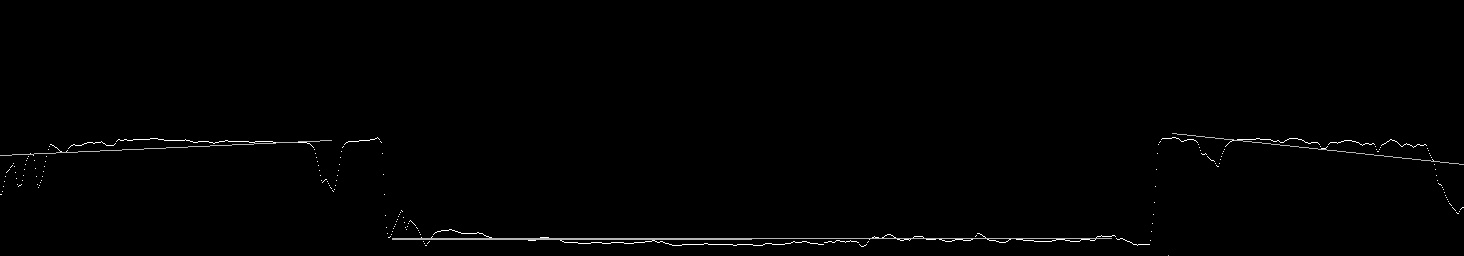
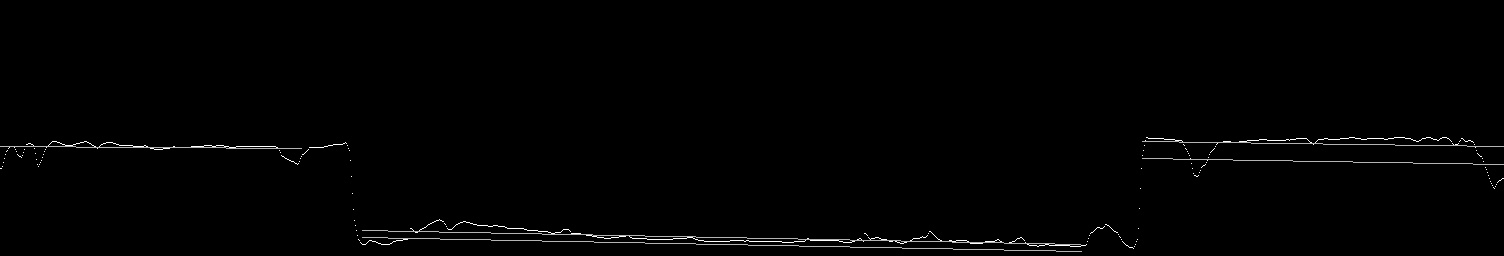
Final touches
fixed compare colours on the final candidate. Changed colour difference
to using a rgb delta e that ignored perceptual difference

diff --git a/cvtest/cvtest/Main.cpp b/cvtest/cvtest/Main.cpp
@@ -14,11 +14,48 @@ const int VGA_HEIGHT = 480;
 const int QQVGA_WIDTH = 160;
 const int QQVGA_HEIGHT = 120;
 
+std::vector<cv::Mat> newsetfourColour(){
+	std::vector<cv::Mat> frames = std::vector<cv::Mat>();
+	frames.push_back(cv::imread("rawdata\\set_four\\1cframe.jpg"));
+	frames.push_back(cv::imread("rawdata\\set_four\\2cframe.jpg"));
+	frames.push_back(cv::imread("rawdata\\set_four\\3cframe.jpg"));
+	frames.push_back(cv::imread("rawdata\\set_four\\4cframe.jpg"));
+
+	return frames;
+}
+
+std::vector<cv::Mat> newsetfourDepth(){
+	std::vector<cv::Mat> frames = std::vector<cv::Mat>();
+	frames.push_back(cv::imread("rawdata\\set_four\\1depthframe.jpg", CV_LOAD_IMAGE_GRAYSCALE));
+	frames.push_back(cv::imread("rawdata\\set_four\\2depthframe.jpg", CV_LOAD_IMAGE_GRAYSCALE));
+	frames.push_back(cv::imread("rawdata\\set_four\\3depthframe.jpg", CV_LOAD_IMAGE_GRAYSCALE));
+	frames.push_back(cv::imread("rawdata\\set_four\\4depthframe.jpg", CV_LOAD_IMAGE_GRAYSCALE));
+
+	return frames;
+}
 std::vector<cv::Mat> newsetoneColour(){
 	std::vector<cv::Mat> frames = std::vector<cv::Mat>();
 	frames.push_back(cv::imread("rawdata\\newsetone\\2cframe.jpg"));
 	frames.push_back(cv::imread("rawdata\\newsetone\\3cframe.jpg"));
 	frames.push_back(cv::imread("rawdata\\newsetone\\4cframe.jpg"));
+
+	return frames;
+}
+
+std::vector<cv::Mat> newsettwoColor(){
+	std::vector<cv::Mat> frames = std::vector<cv::Mat>();
+	frames.push_back(cv::imread("rawdata\\newsettwo\\1cframe.jpg"));
+	frames.push_back(cv::imread("rawdata\\newsettwo\\2cframe.jpg"));
+	frames.push_back(cv::imread("rawdata\\newsettwo\\3cframe.jpg"));
+
+	return frames;
+}
+
+std::vector<cv::Mat> newsettwoDepth(){
+	std::vector<cv::Mat> frames = std::vector<cv::Mat>();
+	frames.push_back(cv::imread("rawdata\\newsettwo\\1depthframe.jpg", CV_LOAD_IMAGE_GRAYSCALE));
+	frames.push_back(cv::imread("rawdata\\newsettwo\\2depthframe.jpg", CV_LOAD_IMAGE_GRAYSCALE));
+	frames.push_back(cv::imread("rawdata\\newsettwo\\3depthframe.jpg", CV_LOAD_IMAGE_GRAYSCALE));
 
 	return frames;
 }
@@ -57,7 +94,7 @@ std::vector<cv::Mat> getDFrames(){
 	frames.push_back(cv::imread("rawdata\\setthree_with_markers\\6depthframe.jpg", CV_LOAD_IMAGE_GRAYSCALE));
 	frames.push_back(cv::imread("rawdata\\setthree_with_markers\\7depthframe.jpg", CV_LOAD_IMAGE_GRAYSCALE));
 	frames.push_back(cv::imread("rawdata\\setthree_with_markers\\8depthframe.jpg", CV_LOAD_IMAGE_GRAYSCALE));
-	frames.push_back(cv::imread("rawdata\\setthree_with_markers\\93depthframe.jpg", CV_LOAD_IMAGE_GRAYSCALE));
+	frames.push_back(cv::imread("rawdata\\setthree_with_markers\\9depthframe.jpg", CV_LOAD_IMAGE_GRAYSCALE));
 	frames.push_back(cv::imread("rawdata\\setthree_with_markers\\10depthframe.jpg", CV_LOAD_IMAGE_GRAYSCALE));
 	frames.push_back(cv::imread("rawdata\\setthree_with_markers\\11depthframe.jpg", CV_LOAD_IMAGE_GRAYSCALE));
 	
@@ -65,7 +102,7 @@ std::vector<cv::Mat> getDFrames(){
 }	
 
 //stitches all frames based on able to find keypoints. Stops when keypoint not found. FOR NOW
-cv::Mat StitchFrames(std::vector<cv::Mat> cframes, std::vector<cv::Mat> dframes){
+cv::Mat StitchFrames(std::vector<cv::Mat> cframes, std::vector<cv::Mat> dframes, cv::String dataset){
 	assert(cframes.size() == dframes.size());
 	int direction = LEFT2RIGHT; //by default left to right stitching
 	cv::Mat L_cimg, R_cimg;
@@ -256,9 +293,9 @@ cv::Mat StitchFrames(std::vector<cv::Mat> cframes, std::vector<cv::Mat> dframes)
 		cv::Mat corresult = imgreg.stitch(left_cimg, right_cimg, corr_values.first, corr_values.second);
 		cv::Mat depthstitch = imgreg.stitch(left_dimg, right_dimg, corr_values.first, corr_values.second);
 		std::ostringstream stream,dstream;
-		stream << "rawdata\\result\\";
+		stream << "rawdata\\result\\";stream << dataset;
 		stream << "colorstitch.jpg";
-		dstream << "rawdata\\result\\";
+		dstream << "rawdata\\result\\";dstream << dataset;
 		dstream << "depthstitch.jpg";
 		cv::String dfilename = dstream.str();
 		cv::String filename = stream.str();
@@ -273,9 +310,8 @@ cv::Mat StitchFrames(std::vector<cv::Mat> cframes, std::vector<cv::Mat> dframes)
 		}else{
 			printf("Error saving Image. ");
 		}
-		cv::imshow("corresult", corresult);
-		cv::imshow("depthstitch", depthstitch);
-		cv::waitKey(40);
+
+		cv::destroyAllWindows();
 		cstitches.push_back(corresult);
 		dstitches.push_back(depthstitch);
 	}
@@ -333,30 +369,54 @@ cv::Mat showHueSatHist(cv::Mat src){
 int main(){
 	//DeviceRetriever* retrieve = new DeviceRetriever();
 	//retrieve->runNodes();
-	cv::waitKey(0);
+	//cv::waitKey(0);
+	cv::String dataset;
 	clock_t timer;
 	ColorProcessor cProc = ColorProcessor();
 	depthPlaneDetector depth_detector = depthPlaneDetector(61,30);
-
+	DoorDetector door_detector = DoorDetector();
+	
+	std::ostringstream stream;
 	timer = clock();
 	std::vector<cv::Mat> cframes = std::vector<cv::Mat>();
 	std::vector<cv::Mat> dframes = std::vector<cv::Mat>();
 	//cframes = newsetoneColour();
 	//dframes = newsetoneDepth();
-	//cv::Mat final  = StitchFrames(cframes, dframes);
-	cv::Mat colorpano = cv::imread("rawdata\\colorstitch.jpg");
-	cv::Mat depthpano = cv::imread("rawdata\\depthstitch.jpg", CV_LOAD_IMAGE_GRAYSCALE);
-	DoorDetector door_detector = DoorDetector();
+	//cframes = getCFrames();
+	//dframes = getDFrames();
+	cframes = newsettwoColor();
+	dframes = newsettwoDepth();
+	dataset = "two";
+	//cv::Mat final  = StitchFrames(cframes, dframes,dataset);
+	//cv::Mat frame = (cv::imread("rawdata\\newsettwo\\2cframe.jpg"));
+	//const char* text = door_detector.DetectTexts(frame);
+	//printf("text detected : %s\n", text);
+	//cv::imshow("final", final);
+	//cv::waitKey(40);
+	cv::waitKey(0);
+	stream << "rawdata\\result\\";
+	stream << dataset + "colorstitch.jpg";
+	const std::string colorstitch = stream.str();
+	cv::Mat colorpano = cv::imread(colorstitch);
+	stream.str("");
+
+	stream << "rawdata\\result\\";stream << dataset + "depthstitch.jpg";
+	
+	const std::string depthstitch = stream.str();
+	cv::Mat depthpano = cv::imread(depthstitch, CV_LOAD_IMAGE_GRAYSCALE);
+	stream.str().clear();
+	cv::imshow("depthpano", depthpano);
+	cv::waitKey(40);
+	cv::waitKey(0);
 	cv::Mat depthgraph = depth_detector.displayDepthGraph(depthpano,0,0);
 
-	std::ostringstream stream;
 		stream << "rawdata\\result\\";
 		stream << "depthgraph.jpg";
 		cv::String filename = stream.str();
 		if(cv::imwrite(filename, depthgraph)){
-			printf("Image saved. ");
+			printf("Image saved. \n");
 		}else{
-			printf("Error saving Image. ");
+			printf("Error saving Image. \n");
 		}
 	cv::destroyAllWindows();	
 	std::vector<cv::Rect> keypoints = depth_detector.searchDepthDeviation(depthpano, depthgraph);
@@ -364,8 +424,12 @@ int main(){
 	std::vector<cv::Rect> segments = door_detector.getSegments(depthgraph, keypoints);
 	//match the vertical line segments with line models to get a candidate door
 	std::vector<std::pair<cv::Rect, Line>> excerpts = door_detector.getExcerpts(depthgraph, segments, line_models);
+	std::vector<cv::Mat> color_excerpts = std::vector<cv::Mat>();
+
 	cv::Mat panoline;depthgraph.copyTo(panoline);
 	for(int i = 0; i < excerpts.size(); i++){
+		cv::Mat colorexcerpt = cv::Mat(colorpano, excerpts.at(i).first);
+		color_excerpts.push_back(colorexcerpt);
 		panoline = excerpts.at(i).second.drawLine(panoline,
 			excerpts.at(i).second, excerpts.at(i).first);
 	}
@@ -378,9 +442,60 @@ int main(){
 	steam << "panoline.jpg";
 	cv::String fileaname = steam.str();
 	if(cv::imwrite(fileaname, panoline)){
-		printf("Image saved. ");
+		printf("Image saved. \n");
 	}else{
-		printf("Error saving Image. ");
+		printf("Error saving Image. \n");
+	}
+
+	//get their colours and look for change of colour between twon segments
+	cv::Vec3b prev_color, curr_color;
+	cv::Vec3b* temp_color = NULL;
+	int doorcandidate_excerpt = 0;
+	prev_color = cProc.GetClassesColor(color_excerpts.at(0),2,5).at(0);
+	for(int k = 1; k < color_excerpts.size(); k++){
+		curr_color = cProc.GetClassesColor(color_excerpts.at(k),2,5).at(0);
+		cv::imshow("previous excerpt", color_excerpts.at(k-1));
+		cv::imshow("curr_excerpt", color_excerpts.at(k));
+		cv::imshow("previous colour", cProc.displayColor(prev_color));
+		cv::imshow("curr color", cProc.displayColor(curr_color));
+		cv::waitKey(40);
+		cv::waitKey(0);
+
+		double colourdiff = cProc.compareColours(prev_color,curr_color);
+		if(colourdiff > 50){
+			//there's a change in color, check if the next color 
+			//is similar to the changed one 
+			if(temp_color == NULL){
+				//mark excerpt as potential
+				temp_color = &curr_color;
+				doorcandidate_excerpt = k;
+			}else{
+				//there's change in colour between previous and now colour
+				//check if there's difference in colour between temp and now?
+				colourdiff = cProc.compareColours(prev_color, *temp_color);
+				if(colourdiff > 50){
+					break;
+				}
+				temp_color = &prev_color;
+				doorcandidate_excerpt = k;
+			}
+		}
+		prev_color = curr_color;
+	}
+
+	//extract doorexcerpt and display it
+	cv::Mat candidate = cv::Mat(colorpano, excerpts.at(doorcandidate_excerpt).first);
+	cv::imshow("candidate", candidate);
+	cv::waitKey(40);cv::waitKey(0);
+	cv::destroyAllWindows();
+	steam.str("");
+	steam<< "rawdata\\result\\";
+	steam << "candidate.jpg";
+	fileaname = steam.str();
+	if(cv::imwrite(fileaname, candidate)){
+		printf("Image saved. \n");
+	}else{
+		printf("Error saving Image. \n");
 	}
 
 	timer = clock() - timer;

diff --git a/cvtest/cvtest/ColorProcessor.cpp b/cvtest/cvtest/ColorProcessor.cpp
@@ -278,7 +278,10 @@ cv::Rect ColorProcessor::MatchingKeypoints(cv::Mat img1, cv::Mat img2,std::vecto
 		if(ex < smallestx)	smallestx = ex;
 		if(why < smallesty)	smallesty = why;
 	}
-
+	if(smallestx < 0) smallestx = 0;
+	if(smallesty < 0) smallesty = 0;
+	if(largestx > img2.rows) largestx = img2.rows;
+	if(largesty > img2.rows) largesty = img2.rows;
 	int x = (int) smallestx ; int y = (int) smallesty;
 	int roix = (int) smallestx + img1.cols;
 	int width = largestx - smallestx;
@@ -287,12 +290,13 @@ cv::Rect ColorProcessor::MatchingKeypoints(cv::Mat img1, cv::Mat img2,std::vecto
 
 	printf("extra width : %d, extra height : %d\n", (x+width), (x+height));
 	
-	if(x+width > img_matches.cols){
-		width -= ((x+width)-img_matches.cols);
+	if(roix+width > img_matches.cols){
+		width -= ((roix+width)-img_matches.cols);
+
 		printf("extra width\n");
 	}
 
-	if(y+height   > img_matches.rows)	height -= ((x+height)-img_matches.rows);
+	if(y+height   > img_matches.rows)	height -= ((y+height)-img_matches.rows);
 	printf("largestx :%d, smallestx : %d, largesty : %d, smallesty : %d\n", largestx, smallestx,  largesty, smallesty);
 	printf("width :%d, height:%d\n", width, height);
 
@@ -579,6 +583,18 @@ std::vector<cv::Vec3b> ColorProcessor::GetClassesColor(cv::Mat src, int k, int i
 	} 
 
 	return result_classes;
+}
+
+//RGB delta color difference comparison. Similar to Lab's delta E formulae, it uses the RGB color space instead
+//calculate the color difference
+double ColorProcessor::compareColours(cv::Vec3b L_lastcolour,cv::Vec3b R_firstcolour){
+
+	double diff = std::sqrt(	std::pow((double) L_lastcolour.val[0] - (double) R_firstcolour.val[0],2)+
+								std::pow((double) L_lastcolour.val[1] - (double) R_firstcolour.val[1],2)+
+								std::pow((double) L_lastcolour.val[2] - (double) R_firstcolour.val[2],2)
+								);
+
+	return diff;
 }
 
 cv::Mat ColorProcessor::ColorClusteredImg(cv::Mat src, int k, int iteration){

diff --git a/cvtest/cvtest/ImgRegistration.cpp b/cvtest/cvtest/ImgRegistration.cpp
@@ -159,9 +159,13 @@ cv::Mat ImageRegistration::stitch(cv::Mat img1, cv::Mat img2, int stitchx, int s
 			//blank spaces is above the image, affects stitching. Needs to be take away
 			prev_offy = pos_stitchy +  (img1.rows - img2.rows);
 		}
-
-		roi2 = cv::Mat(final, cv::Rect(img1.cols - (img2.cols - stitchx),
-			prev_offy, img2.cols, img2.rows));
+		if(stitchx > img2.cols){
+			
+			roi2 = cv::Mat(final, cv::Rect(stitchx, pos_stitchy, img2.cols, img2.rows));
+		}else{
+			roi2 = cv::Mat(final, cv::Rect(img1.cols - (img2.cols - stitchx),
+				prev_offy, img2.cols, img2.rows));
+		}
 	}else{
 		roi2 = cv::Mat(final, cv::Rect(stitchx, pos_stitchy, img2.cols, img2.rows));
 	}
@@ -274,7 +278,7 @@ std::pair<std::pair<int,int>,double> ImageRegistration::Norm_CrossCorr2(cv::Mat 
 	}
 
 	cv::Mat right_roi = cv::Mat(R_src, right_window);
-
+	
 	//calculate correlation
 	for(int offsety = start_offsety; offsety < end_offsety; offsety++){
 		for(int offsetx = start_offsetx; offsetx > end_offsetx; offsetx--){
@@ -643,6 +647,7 @@ std::pair<cv::Rect, cv::Rect> ImageRegistration::findWindowOfInterest(Frame prev
 			double leftdval_diff, rightdval_diff;
 			leftdval_diff = std::abs(left_prevdval - right_currdval);
 			rightdval_diff = std::abs(right_prevdval - right_currdval);
+			
 			if(leftdval_diff > rightdval_diff && (leftdval_diff-rightdval_diff)/(leftdval_diff+rightdval_diff) > 0.4){
 				//rightdval is more similar, right marker will be chosen with left marker of current frame
 				windows = std::pair<cv::Rect,cv::Rect>(prev_frame.getRightMarker(), curr_frame.getLeftMarker());

diff --git a/cvtest/cvtest/DoorDetector.cpp b/cvtest/cvtest/DoorDetector.cpp
@@ -47,6 +47,8 @@ std::vector<Line> DoorDetector::findDepthLines(cv::Mat depth_src, cv::Mat depth_
 		cv::waitKey(40);
 		//cv::waitKey(0);
 	}
+	cv::waitKey(0);
+	cv::waitKey(40);
 	std::vector<Line> temp_models = std::vector<Line>();
 	models.push_back(temp_lines.at(0));
 	Line initial = models.at(0);
@@ -82,10 +84,7 @@ std::vector<Line> DoorDetector::findDepthLines(cv::Mat depth_src, cv::Mat depth_
 			}
 		}
 	}
-
-
-	printf("nof models found : %d\n", models.size());
-	//draw these lines
+	
 	for(int i = 0; i < models.size(); i++){
 		final_graph = models.at(i).drawLine(final_graph, models.at(i));
 	}
@@ -97,6 +96,7 @@ std::vector<Line> DoorDetector::findDepthLines(cv::Mat depth_src, cv::Mat depth_
 //	cv::waitKey(40);
 //	cv::waitKey(0);
 //	cv::destroyAllWindows();
+
 	return models;
 }
 
@@ -172,12 +172,12 @@ std::vector<std::pair<cv::Rect, Line>> DoorDetector::getExcerpts(cv::Mat depthgr
 	return excerpts;
 }
 
-cv::String DoorDetector::DetectTexts(cv::Mat colorpano){
+const char* DoorDetector::DetectTexts(cv::Mat colorpano){
 	cv::Mat sharpened_pano;
-	cv::String answer;
+	const char* answer;
 	cv::GaussianBlur(colorpano, sharpened_pano, cv::Size(0, 0), 3);
 	cv::addWeighted(colorpano, 1.5, sharpened_pano, -0.5, 0, sharpened_pano);
-	cv::imshow("colorpanp", sharpened_pano);
+	cv::imshow("colorpano", sharpened_pano);
 	cv::waitKey(40);
 	cv::waitKey(0);
 

diff --git a/cvtest/cvtest/DoorDetector.h b/cvtest/cvtest/DoorDetector.h
@@ -12,7 +12,7 @@ public:
 	std::vector<Line> findDepthLines(cv::Mat depth_src, cv::Mat depth_graph);
 	std::vector<cv::Rect> getSegments(cv::Mat depth_graph, std::vector<cv::Rect> rois);
 	std::vector<std::pair<cv::Rect, Line>> getExcerpts(cv::Mat depthgraph, std::vector<cv::Rect> segments, std::vector<Line> models);
-	cv::String DetectTexts(cv::Mat colorpano);
+	const char* DetectTexts(cv::Mat colorpano);
 
 //private functions
 private:

diff --git a/cvtest/cvtest/ColorProcessor.h b/cvtest/cvtest/ColorProcessor.h
@@ -32,7 +32,7 @@ public:
 
 	std::vector<cv::Mat> findDx(cv::Mat src, cv::Mat graph, int window_width);
 	std::vector<cv::Vec4i> HoughLines(cv::Mat src);
-
+	double compareColours(cv::Vec3b L_lastcolour,cv::Vec3b R_firstcolour);
 	void reduceColor64(cv::Mat& src, cv::Mat& dst);
 	std::vector<cv::Vec3b> GetClassesColor(cv::Mat src, int k, int iteration);
 	cv::Mat ColorClusteredImg(cv::Mat src, int k, int iteration);
